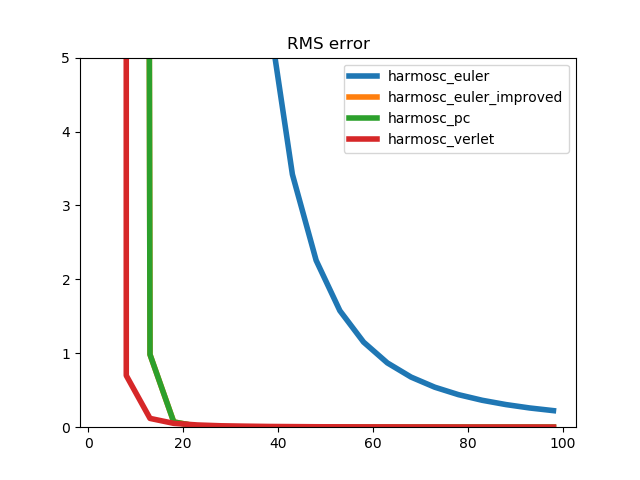
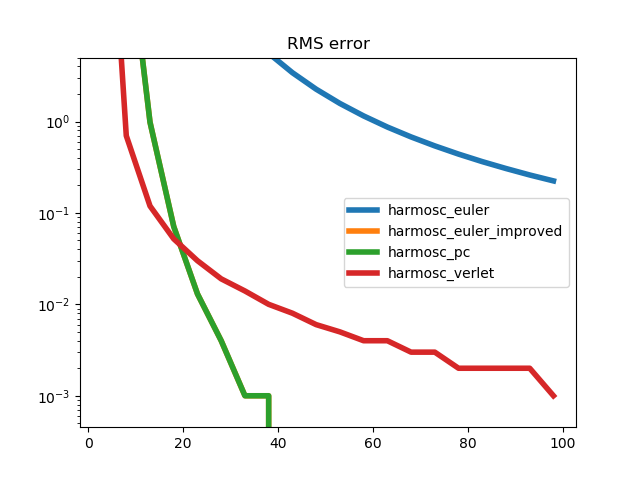
Miron revision after Verlet lecture.

diff --git a/task1/src/harmosc_verlet.cpp b/task1/src/harmosc_verlet.cpp
@@ -18,7 +18,7 @@ float momentum_analytical(float time){
 int main(int argc, char const *argv[]) {
   if(argc == 1){
     cout << "ERROR: Expected number of steps.\nUSAGE: " << argv[1] << " NSTEPS" << endl;
-  }
+  }Þ
   float x0 = 0;
   float p0 = 1;
   float total_time = 12.56637061; //Emulate program given by Prof.
@@ -26,15 +26,17 @@ int main(int argc, char const *argv[]) {
   float step_size = total_time/N_steps;
   float position[N_steps];
   float momentum[N_steps];
+  float forces[N_steps];
   position[0] = x0;
   momentum[0] = p0;
+  forces[0] = force(position[0]);
   cout << "Time" << ',' << "Position" << ',' << "Momentum" << ',' << "Position-A" << ',' << "Momentum-A" << endl;
   cout << 0 << ',' << position[0] << ',' << momentum[0] << ',' << position_analitical(0) << ',' << momentum_analytical(0) <<  endl;
   for(int i = 0; i<N_steps-1;i++){
-    float momentum_half_step = momentum[i] + 0.5 * step_size * force(position[i]);
+    float momentum_half_step = momentum[i] + 0.5 * step_size * forces[i];
     position[i+1] = position[i] + step_size * momentum_half_step;
-    float force_step = force(position[i+1]);
-    momentum[i+1] = momentum_half_step + 0.5 * step_size * force_step;
+    forces[i+1] = force(position[i+1]);
+    momentum[i+1] = momentum_half_step + 0.5 * step_size * forces[i+1];
     float t = (i+1)*step_size;
     cout << t << ',' << position[i+1] << ',' << momentum[i+1] << ',' << position_analitical(t) << ',' << momentum_analytical(t) << endl;
   }

diff --git a/task1/src/plot_errors.py b/task1/src/plot_errors.py
@@ -18,6 +18,7 @@ for j, method in enumerate(methods):
         rms_errors[i,j] = split_output[3]
     sys.stdout.write("\t\tDone.\n")
 plt.figure()
+plt.yscale('log')
 [plt.plot(N_steps, abs_errors[:,m], label = methods[m], lw=4) for m in range(len(methods))]
 plt.title("Absolute error")
 plt.legend()
@@ -26,6 +27,7 @@ plt.gcf()
 plt.savefig("../results/abserr.png")
 
 plt.figure()
+plt.yscale('log')
 [plt.plot(N_steps, drift_errors[:,m], label = methods[m], lw= 4) for m in range(len(methods))]
 plt.title("Drift error")
 plt.legend()
@@ -34,6 +36,7 @@ plt.gcf()
 plt.savefig("../results/drifterr.png")
 
 plt.figure()
+plt.yscale('log')
 [plt.plot(N_steps, rms_errors[:,m], label = methods[m], lw =4) for m in range(len(methods))]
 plt.title("RMS error")
 plt.legend()
